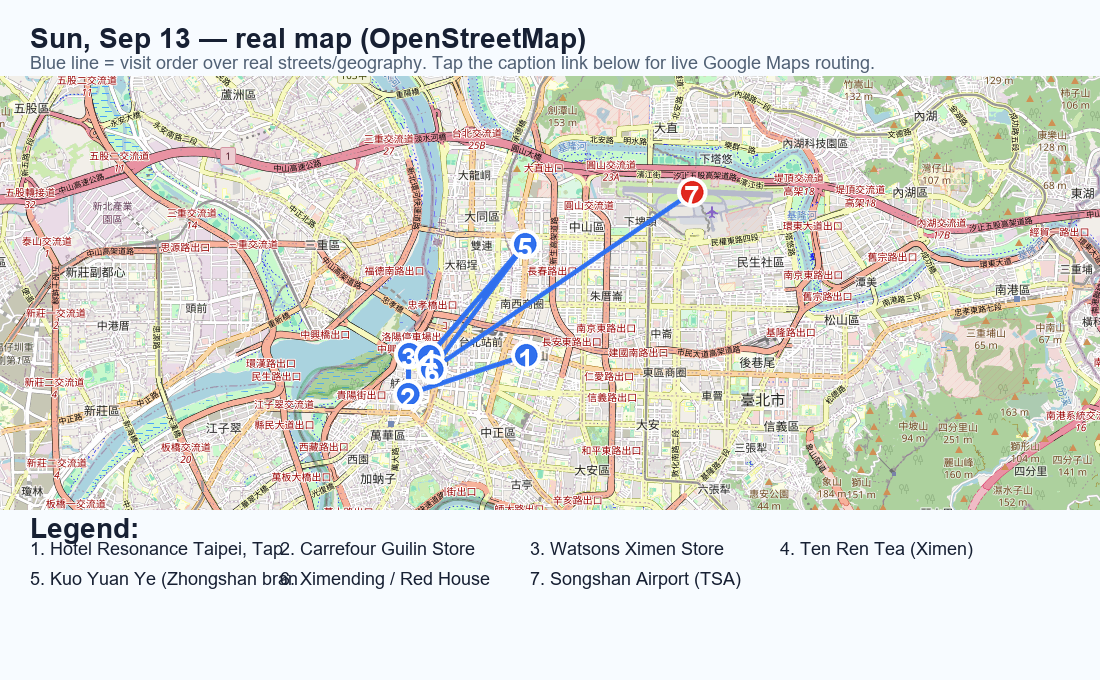
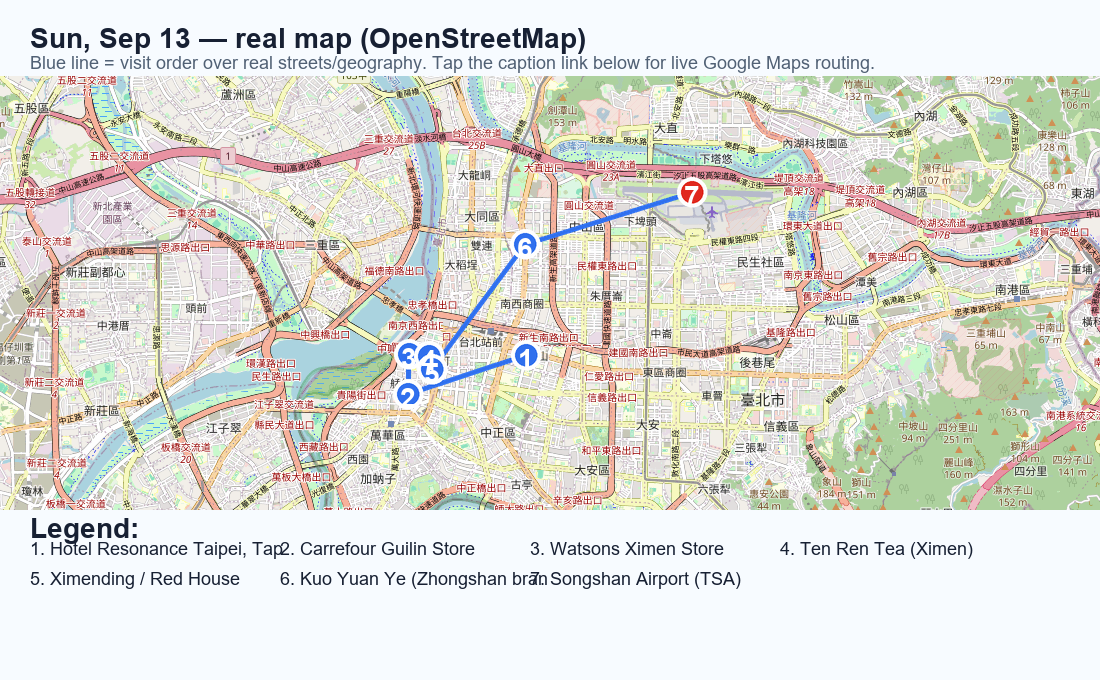
Fix Sep 13 Ximending shopping route: reorder stops to match numbered map pins 1-6, expand Kuo Yuan Ye description
- Reordered cards so Kuo Yuan Ye visits last (map pin 6) on the walk back toward hotel, eliminating backtrack/zigzag (was: Carrefour->Watsons->TenRen->KuoYuanYe(north detour)->Ximen(back south))
- New order: Carrefour Guilin -> Watsons Ximen -> Ten Ren Tea -> Ximending/Red House -> Kuo Yuan Ye (Zhongshan) -> hotel/TSA
- Rewrote EN+ZH day text with explicit numbered pin references matching the map legend
- Kuo Yuan Ye description now specifies what to buy (suho pastries, mooncakes/traditional cakes, nougat gift boxes) and gives concrete branch address (No. 34 Zhongshan N. Rd. Sec. 2) for navigation
- Regenerated day-2026-09-13a/b.png maps to reflect new pin order

Copilot-Session: 5728fe09-5b5d-49bb-90e8-1375c7d7759c

diff --git a/Taipei-China-Itinerary.html b/Taipei-China-Itinerary.html
@@ -267,10 +267,10 @@ a{color:var(--acc)}
 </details>
 <details class="day" data-date="2026-09-17">
 <summary><span class="date">Thu, Sep 17</span><span class="hl en">Nanjing South → Zhejiang Taizhou → Linhai (Xin Rong Ji lunch)</span><span class="hl zh">南京南 → 浙江台州 → 临海（新荣记午餐已订）</span><span class="tag en">🚄 + 🍽 confirmed</span><span class="tag zh">🚄 + 🍽 已确认</span></summary>
-<div class="body"><ul class="plan"><li><span class="en">After breakfast/check-out, go <b>directly to ① Nanjing South</b>. <b>Preferred station is now ② Linhai Station, not Taizhou West</b> — Linhai Station is only ~7 km / 20-25 min from Xin Rong Ji, vs. ~47 km / ~50 min from Taizhou West. <b>Target train window: e.g. G7469/G7472 Nanjing South 08:27 → Linhai 11:56</b> (~3h29m); re-check on 12306 nearer the date for the best available train.</span><span class="zh">早餐退房后<b>直接去南京南站</b>。<b>推荐改到临海站下车，不再是台州西站</b>——临海站离新荣记只有约7公里/20-25分钟，台州西站则约47公里/50分钟。<b>目标车次：如G7469/G7472 南京南08:27发车，临海11:56到站</b>（约3小时29分）；出发前请再上12306复核最优车次。</span></li>
-<li><span class="en">🍽 From <b>Linhai Station</b>, it's just ~7 km / 20-25 min to <b>③ Xin Rong Ji, Linhai</b> for the <b>confirmed 13:15 lunch, party of 5</b> (deposit paid; concierge 0576-85117888) — do not detour to the Jiaojiang hotel first.</span><span class="zh">🍽 <b>临海站</b>下车后直接打车去新荣记（约7公里/20-25分钟），<b>13:15午餐5人已确认</b>（订金已付，管家电话0576-85117888）——不再先绕去椒江酒店。</span></li>
-<li><span class="en">Afternoon in Linhai (reordered to avoid backtracking — Ziyang St. is right by the restaurant, then head outward to the lake and temple): <b>④ Ziyang Street</b> short 500–800 m stretch, right by Xin Rong Ji → <b>⑤ Linhai East Lake</b> flat lakeside section → low courtyards of <b>⑥ Longxing Temple</b>.</span><span class="zh">下午在临海：<b>临海东湖</b>平缓湖岸 → <b>紫阳街</b>500–800米短段 → <b>龙兴寺</b>低处院落。</span></li>
-<li><span class="en">Return to <b>⑦ Hilton Taizhou in Jiaojiang</b> in the evening (about 55–75 min) for rest; keep dinner simple/at the hotel. <a href='Nanjing-Day3-Map.html'>Day3 map ↗</a></span><span class="zh">傍晚返回椒江<b>台州希尔顿</b>（约55–75分钟）休息，晚餐从简/酒店内解决。</span></li></ul>
+<div class="body"><ul class="plan"><li><span class="en">After breakfast/check-out, go <b>directly to ① Nanjing South</b>. <b>Preferred station is now ② Linhai Station, not Taizhou West</b> — Linhai Station is only ~7 km / 20-25 min from Xin Rong Ji, vs. ~47 km / ~50 min from Taizhou West. <b>Target train window: e.g. G7469/G7472 Nanjing South 08:27 → Linhai 11:56</b> (~3h29m); re-check on 12306 nearer the date for the best available train.</span><span class="zh">早餐退房后<b>直接去①南京南站</b>。<b>推荐改到②临海站下车，不再是台州西站</b>——临海站离新荣记只有约7公里/20-25分钟，台州西站则约47公里/50分钟。<b>目标车次：如G7469/G7472 南京南08:27发车，临海11:56到站</b>（约3小时29分）；出发前请再上12306复核最优车次。</span></li>
+<li><span class="en">🍽 From <b>Linhai Station</b>, it's just ~7 km / 20-25 min to <b>③ Xin Rong Ji, Linhai</b> for the <b>confirmed 13:15 lunch, party of 5</b> (deposit paid; concierge 0576-85117888) — do not detour to the Jiaojiang hotel first.</span><span class="zh">🍽 <b>临海站</b>下车后直接打车去<b>③新荣记</b>（约7公里/20-25分钟），<b>13:15午餐5人已确认</b>（订金已付，管家电话0576-85117888）——不再先绕去椒江酒店。</span></li>
+<li><span class="en">Afternoon in Linhai (reordered to avoid backtracking — Ziyang St. is right by the restaurant, then head outward to the lake and temple): <b>④ Ziyang Street</b> short 500–800 m stretch, right by Xin Rong Ji → <b>⑤ Linhai East Lake</b> flat lakeside section → low courtyards of <b>⑥ Longxing Temple</b>.</span><span class="zh">下午在临海（调整顺序避免来回折返——紫阳街就在餐厅旁边，再依次往外走到湖边和寺庙）：<b>④紫阳街</b>500–800米短段（就在新荣记旁）→ <b>⑤临海东湖</b>平缓湖岸 → <b>⑥龙兴寺</b>低处院落。</span></li>
+<li><span class="en">Return to <b>⑦ Hilton Taizhou in Jiaojiang</b> in the evening (about 55–75 min) for rest; keep dinner simple/at the hotel. <a href='Nanjing-Day3-Map.html'>Day3 map ↗</a></span><span class="zh">傍晚返回椒江<b>⑦台州希尔顿</b>（约55–75分钟）休息，晚餐从简/酒店内解决。</span></li></ul>
 <figure class="daymap">
 <a href="itinerary-maps/day-2026-09-17a.png" target="_blank" rel="noopener"><img loading="lazy" src="itinerary-maps/day-2026-09-17a.png" alt="Daily combined map for Thu, Sep 17"></a>
 <figcaption><span class="en">Combined daily map on real OpenStreetMap tiles (straight-line visit order, not turn-by-turn routing).</span><span class="zh">每日合并地图（基于真实 OpenStreetMap 地图瓦片，直线示意访问顺序，不代表实际道路导航）。</span><br><span class="en">① UrCove Nanjing Downtown ✅ booked → ② Nanjing South HSR</span><span class="zh">① 南京新街口逸扉酒店 (UrCove Nanjing Downtown) ✅ 已订 → ② 南京南站</span><br><a class="pin" href="https://www.google.com/maps/dir/?api=1&origin=32.03600%2C118.78450&destination=31.96860%2C118.79690&travelmode=driving" target="_blank" rel="noopener"><span class="en">🧭 Open multi-stop route in Google Maps</span><span class="zh">🧭 在 Google Maps 打开多点路线</span></a></figcaption>

diff --git a/index.html b/index.html
@@ -267,10 +267,10 @@ a{color:var(--acc)}
 </details>
 <details class="day" data-date="2026-09-17">
 <summary><span class="date">Thu, Sep 17</span><span class="hl en">Nanjing South → Zhejiang Taizhou → Linhai (Xin Rong Ji lunch)</span><span class="hl zh">南京南 → 浙江台州 → 临海（新荣记午餐已订）</span><span class="tag en">🚄 + 🍽 confirmed</span><span class="tag zh">🚄 + 🍽 已确认</span></summary>
-<div class="body"><ul class="plan"><li><span class="en">After breakfast/check-out, go <b>directly to ① Nanjing South</b>. <b>Preferred station is now ② Linhai Station, not Taizhou West</b> — Linhai Station is only ~7 km / 20-25 min from Xin Rong Ji, vs. ~47 km / ~50 min from Taizhou West. <b>Target train window: e.g. G7469/G7472 Nanjing South 08:27 → Linhai 11:56</b> (~3h29m); re-check on 12306 nearer the date for the best available train.</span><span class="zh">早餐退房后<b>直接去南京南站</b>。<b>推荐改到临海站下车，不再是台州西站</b>——临海站离新荣记只有约7公里/20-25分钟，台州西站则约47公里/50分钟。<b>目标车次：如G7469/G7472 南京南08:27发车，临海11:56到站</b>（约3小时29分）；出发前请再上12306复核最优车次。</span></li>
-<li><span class="en">🍽 From <b>Linhai Station</b>, it's just ~7 km / 20-25 min to <b>③ Xin Rong Ji, Linhai</b> for the <b>confirmed 13:15 lunch, party of 5</b> (deposit paid; concierge 0576-85117888) — do not detour to the Jiaojiang hotel first.</span><span class="zh">🍽 <b>临海站</b>下车后直接打车去新荣记（约7公里/20-25分钟），<b>13:15午餐5人已确认</b>（订金已付，管家电话0576-85117888）——不再先绕去椒江酒店。</span></li>
-<li><span class="en">Afternoon in Linhai (reordered to avoid backtracking — Ziyang St. is right by the restaurant, then head outward to the lake and temple): <b>④ Ziyang Street</b> short 500–800 m stretch, right by Xin Rong Ji → <b>⑤ Linhai East Lake</b> flat lakeside section → low courtyards of <b>⑥ Longxing Temple</b>.</span><span class="zh">下午在临海：<b>临海东湖</b>平缓湖岸 → <b>紫阳街</b>500–800米短段 → <b>龙兴寺</b>低处院落。</span></li>
-<li><span class="en">Return to <b>⑦ Hilton Taizhou in Jiaojiang</b> in the evening (about 55–75 min) for rest; keep dinner simple/at the hotel. <a href='Nanjing-Day3-Map.html'>Day3 map ↗</a></span><span class="zh">傍晚返回椒江<b>台州希尔顿</b>（约55–75分钟）休息，晚餐从简/酒店内解决。</span></li></ul>
+<div class="body"><ul class="plan"><li><span class="en">After breakfast/check-out, go <b>directly to ① Nanjing South</b>. <b>Preferred station is now ② Linhai Station, not Taizhou West</b> — Linhai Station is only ~7 km / 20-25 min from Xin Rong Ji, vs. ~47 km / ~50 min from Taizhou West. <b>Target train window: e.g. G7469/G7472 Nanjing South 08:27 → Linhai 11:56</b> (~3h29m); re-check on 12306 nearer the date for the best available train.</span><span class="zh">早餐退房后<b>直接去①南京南站</b>。<b>推荐改到②临海站下车，不再是台州西站</b>——临海站离新荣记只有约7公里/20-25分钟，台州西站则约47公里/50分钟。<b>目标车次：如G7469/G7472 南京南08:27发车，临海11:56到站</b>（约3小时29分）；出发前请再上12306复核最优车次。</span></li>
+<li><span class="en">🍽 From <b>Linhai Station</b>, it's just ~7 km / 20-25 min to <b>③ Xin Rong Ji, Linhai</b> for the <b>confirmed 13:15 lunch, party of 5</b> (deposit paid; concierge 0576-85117888) — do not detour to the Jiaojiang hotel first.</span><span class="zh">🍽 <b>临海站</b>下车后直接打车去<b>③新荣记</b>（约7公里/20-25分钟），<b>13:15午餐5人已确认</b>（订金已付，管家电话0576-85117888）——不再先绕去椒江酒店。</span></li>
+<li><span class="en">Afternoon in Linhai (reordered to avoid backtracking — Ziyang St. is right by the restaurant, then head outward to the lake and temple): <b>④ Ziyang Street</b> short 500–800 m stretch, right by Xin Rong Ji → <b>⑤ Linhai East Lake</b> flat lakeside section → low courtyards of <b>⑥ Longxing Temple</b>.</span><span class="zh">下午在临海（调整顺序避免来回折返——紫阳街就在餐厅旁边，再依次往外走到湖边和寺庙）：<b>④紫阳街</b>500–800米短段（就在新荣记旁）→ <b>⑤临海东湖</b>平缓湖岸 → <b>⑥龙兴寺</b>低处院落。</span></li>
+<li><span class="en">Return to <b>⑦ Hilton Taizhou in Jiaojiang</b> in the evening (about 55–75 min) for rest; keep dinner simple/at the hotel. <a href='Nanjing-Day3-Map.html'>Day3 map ↗</a></span><span class="zh">傍晚返回椒江<b>⑦台州希尔顿</b>（约55–75分钟）休息，晚餐从简/酒店内解决。</span></li></ul>
 <figure class="daymap">
 <a href="itinerary-maps/day-2026-09-17a.png" target="_blank" rel="noopener"><img loading="lazy" src="itinerary-maps/day-2026-09-17a.png" alt="Daily combined map for Thu, Sep 17"></a>
 <figcaption><span class="en">Combined daily map on real OpenStreetMap tiles (straight-line visit order, not turn-by-turn routing).</span><span class="zh">每日合并地图（基于真实 OpenStreetMap 地图瓦片，直线示意访问顺序，不代表实际道路导航）。</span><br><span class="en">① UrCove Nanjing Downtown ✅ booked → ② Nanjing South HSR</span><span class="zh">① 南京新街口逸扉酒店 (UrCove Nanjing Downtown) ✅ 已订 → ② 南京南站</span><br><a class="pin" href="https://www.google.com/maps/dir/?api=1&origin=32.03600%2C118.78450&destination=31.96860%2C118.79690&travelmode=driving" target="_blank" rel="noopener"><span class="en">🧭 Open multi-stop route in Google Maps</span><span class="zh">🧭 在 Google Maps 打开多点路线</span></a></figcaption>
